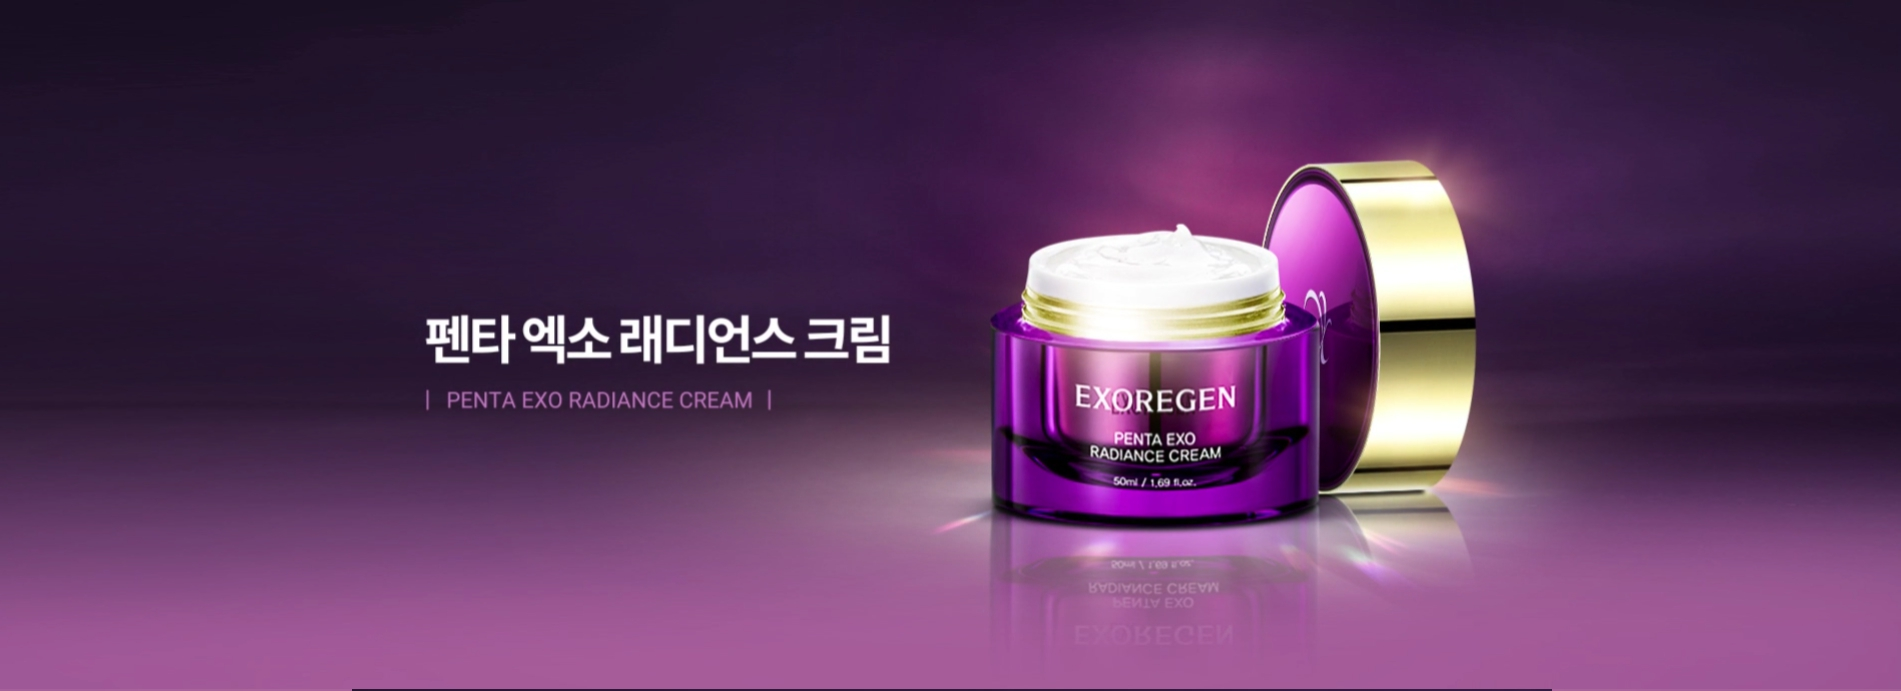
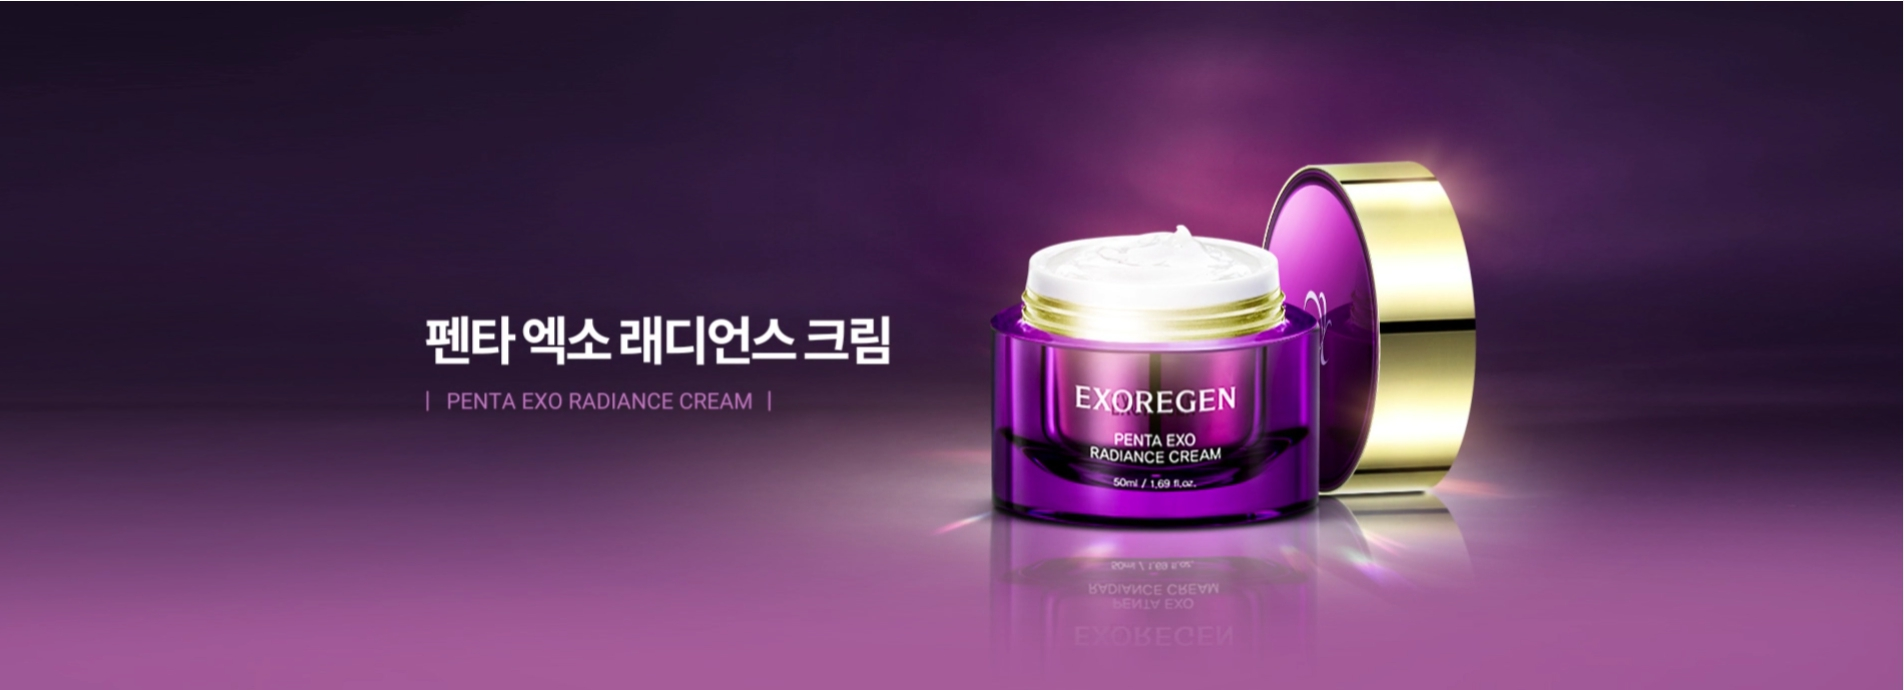
[PC]제품 랜딩페이지 첫번째섹션 비디오 포스터 변경, 안쓰는 이미지 삭제, 첫번째섹션 동영상 autoplay 속성제거

diff --git a/landing/penta_landing.html b/landing/penta_landing.html
@@ -273,7 +273,7 @@
     <!-- 제품 첫번째 섹션 -->
     <section class="product-sec">
         <div class="sec1-video-wrap">
-            <video src="/img_/landing/sec1-video.mp4" autoplay muted playsinline poster="/img_/landing/sec1-video-poster.jpg"></video>
+            <video src="/img_/landing/sec1-video.mp4" muted playsinline poster="/img_/landing/sec1-video-poster.jpg"></video>
         </div>
         <div class="pdt-info-box">
             <div class="pdt-info-txt-wrap">
